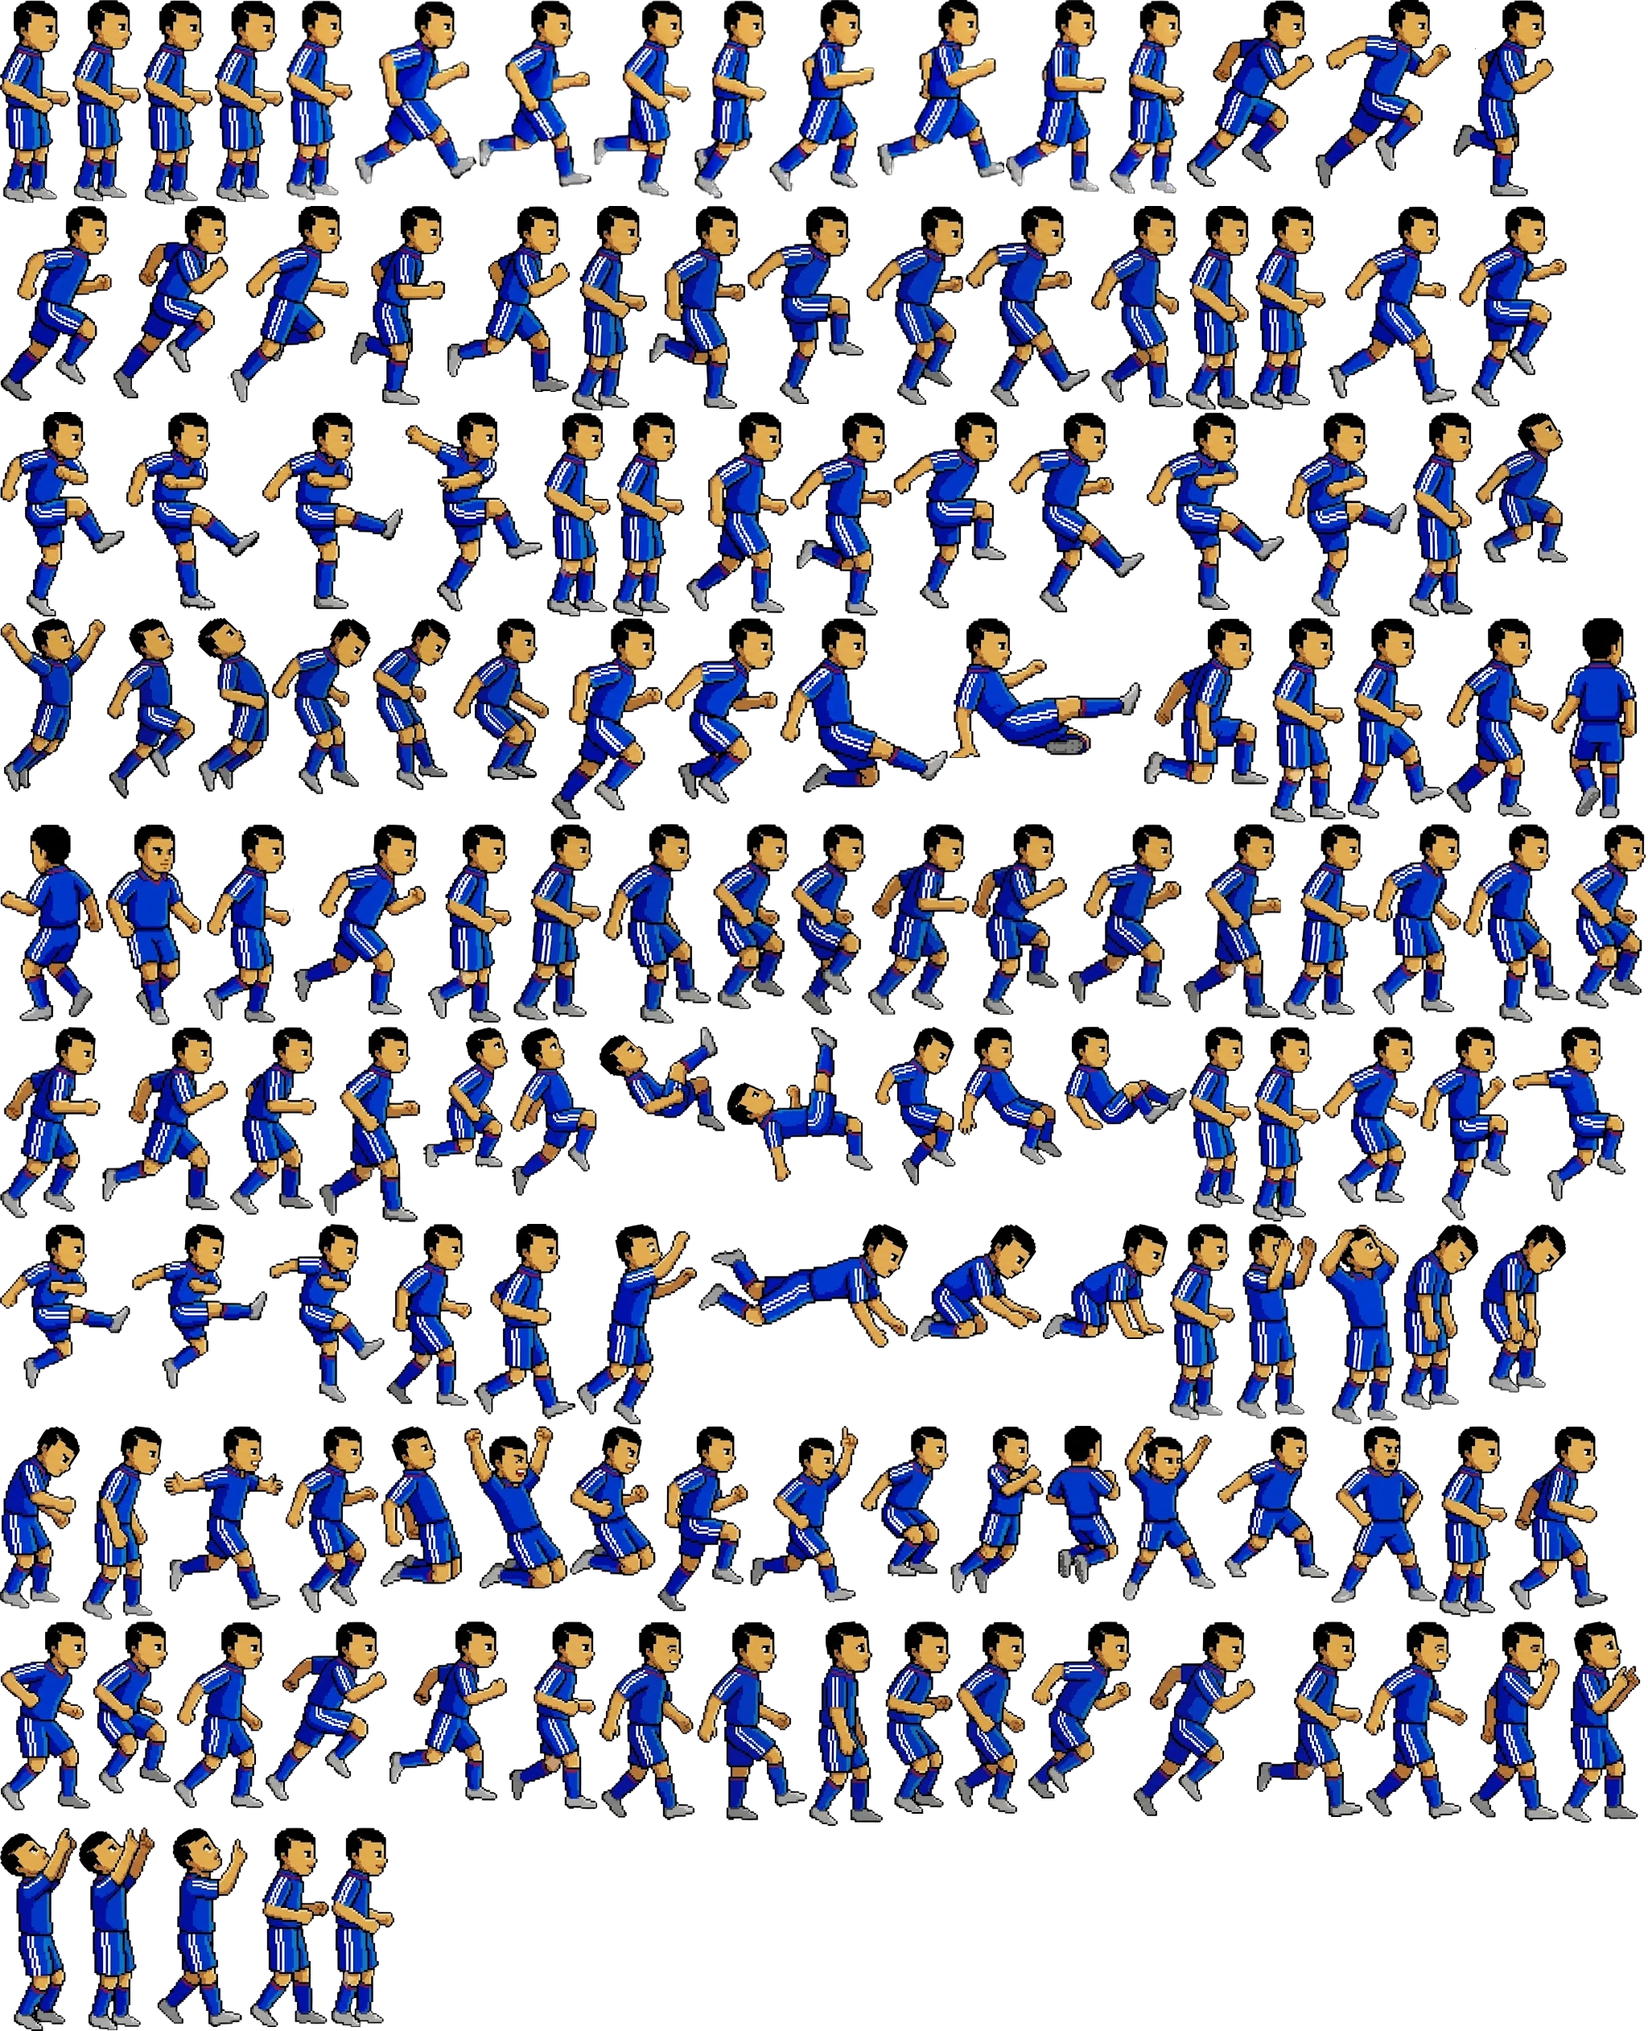
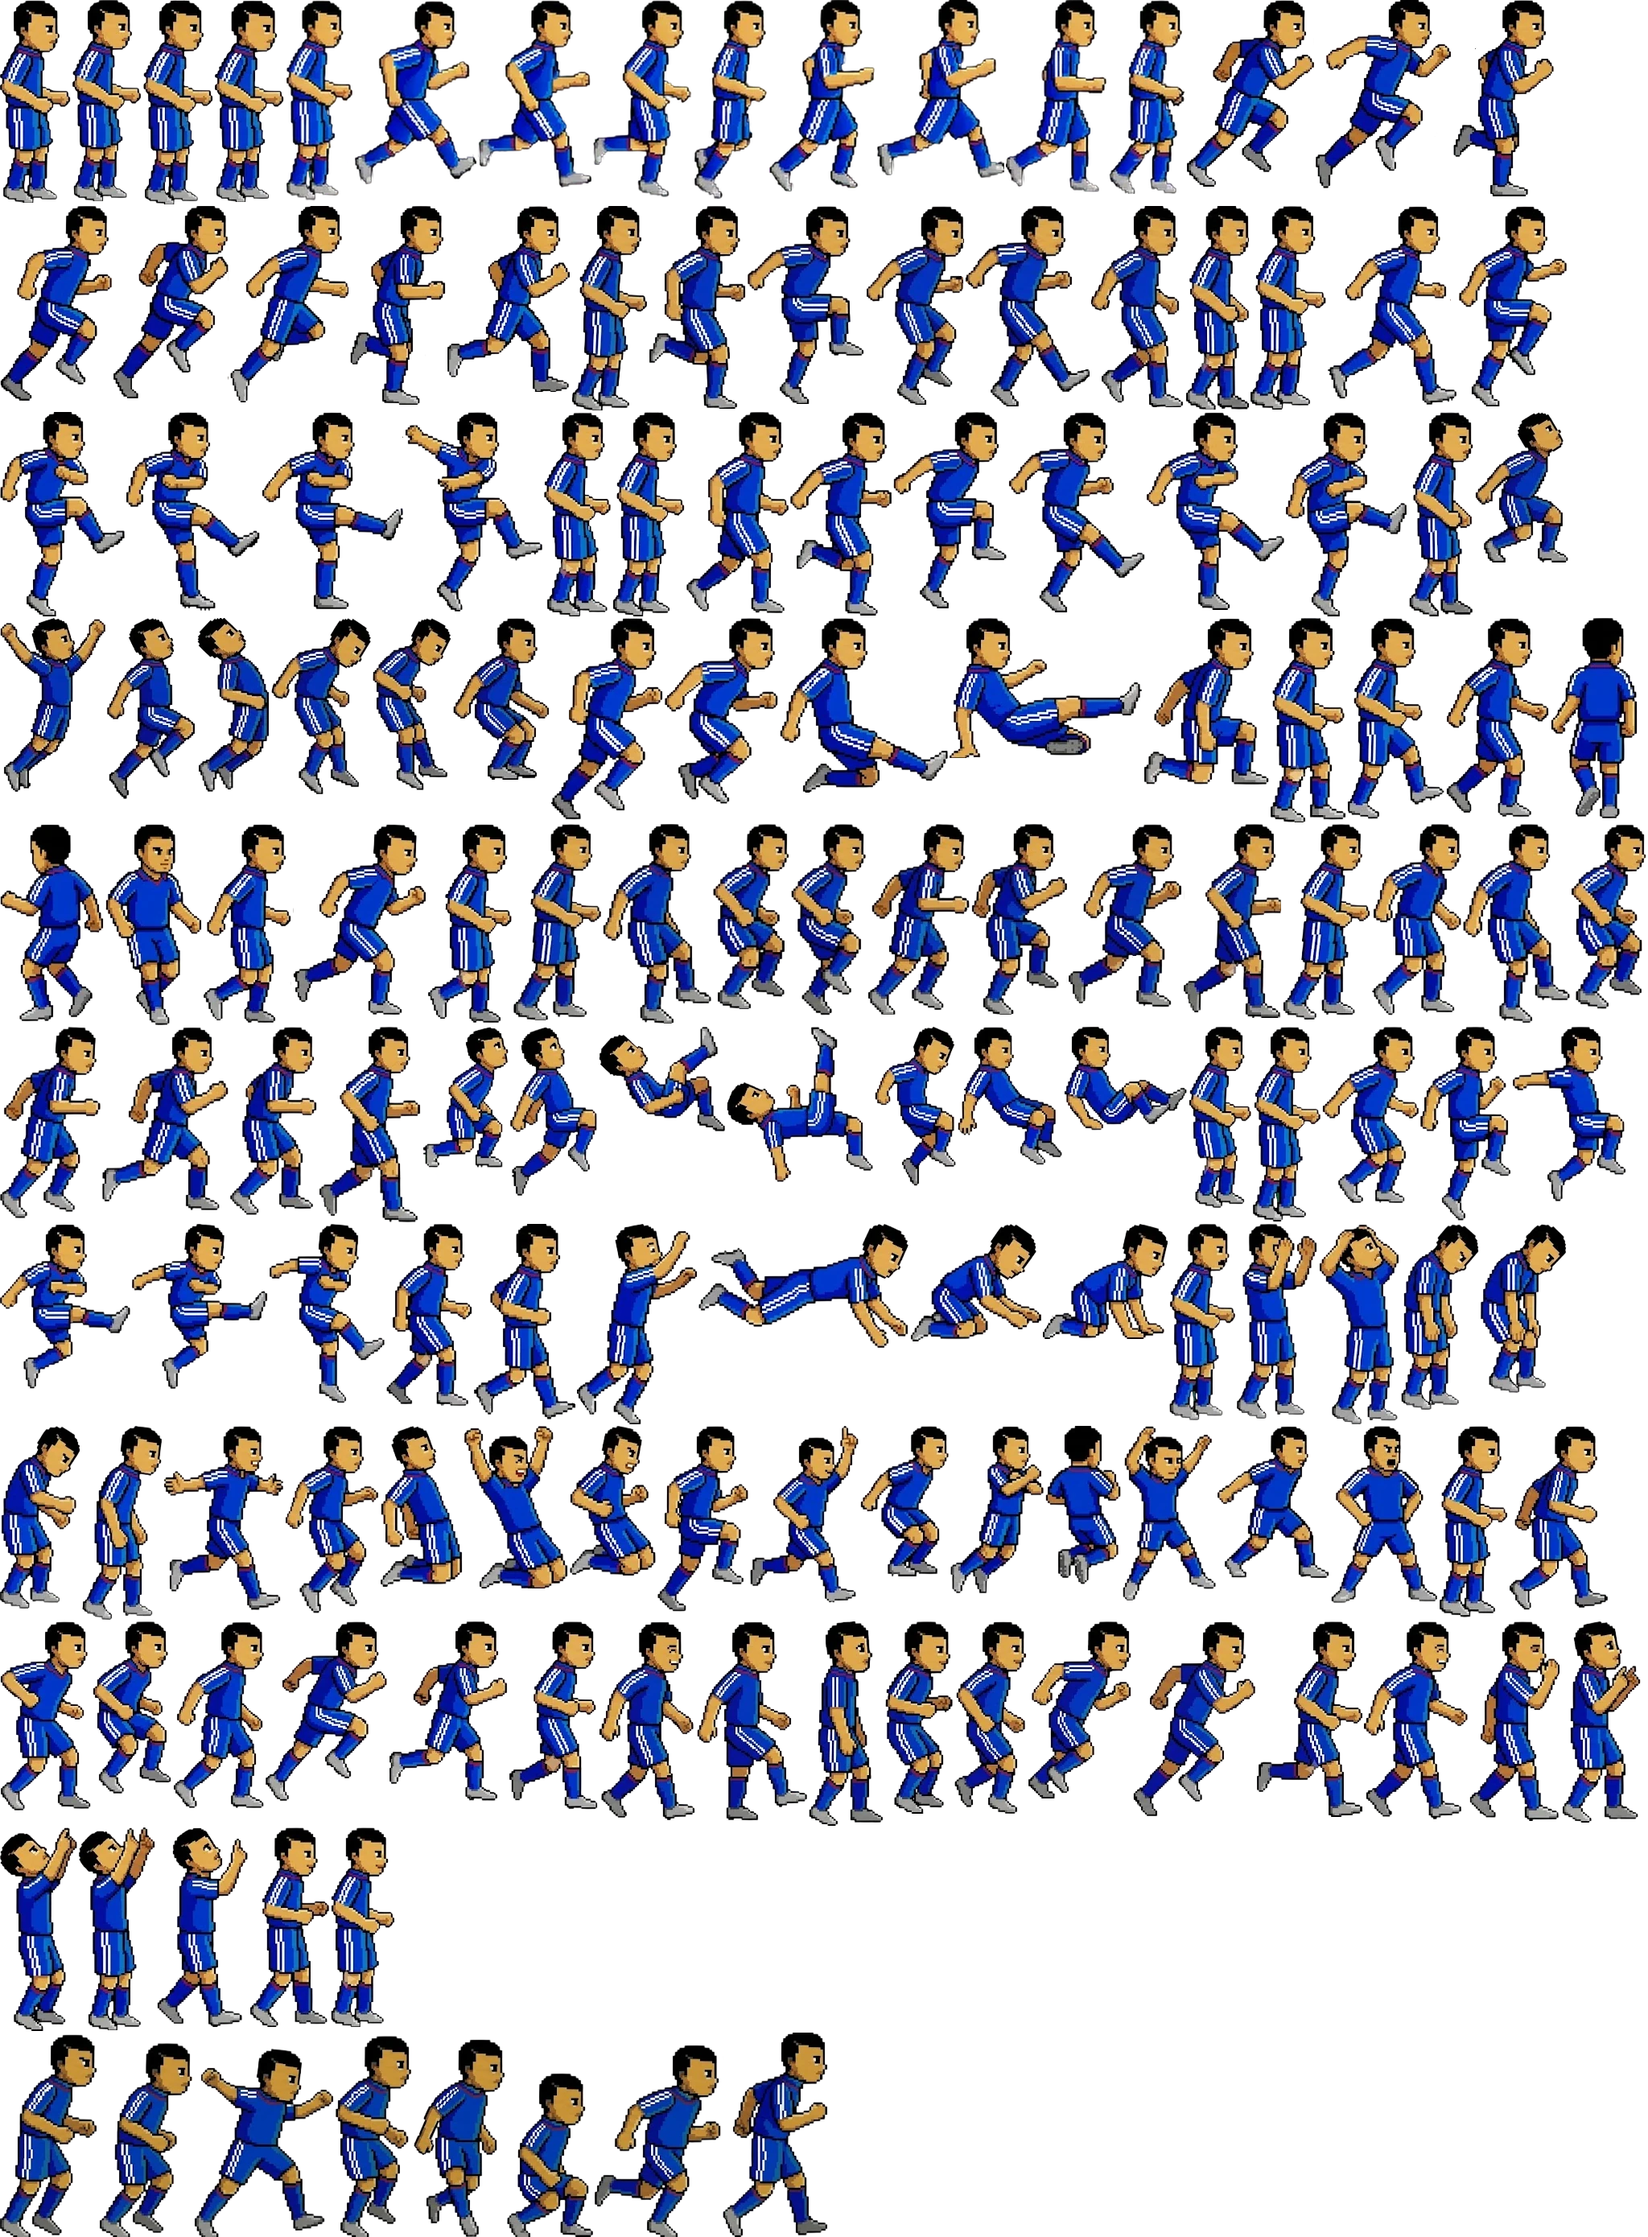
update ki nang messi

diff --git a/js/sprites.js b/js/sprites.js
@@ -1,5 +1,5 @@
 /* Sprite atlas: mỗi khung hình = [x, y, rộng, cao] trong ảnh atlas. Tạo bằng tools/build_atlas.py */
-const SPRITE_META={"std":{"ref":254,"anims":{"idle":[[0,0,88,252],[90,0,86,250],[178,0,87,254],[267,0,86,251]],"run":[[355,0,84,250],[441,0,151,230],[594,0,141,233],[737,0,123,245],[862,0,91,248],[955,0,132,239],[1089,0,159,221],[1250,0,126,239],[1378,0,95,241]],"bpha":[[1475,0,158,232],[1635,0,169,234],[1806,0,125,244],[0,256,139,242],[141,256,143,239],[286,256,147,244],[435,256,119,247],[556,256,152,231]],"pass":[[710,256,94,254],[806,256,121,252],[929,256,145,246],[1076,256,122,247],[1200,256,154,249],[1356,256,115,250],[1473,256,79,253]],"fk":[[710,256,94,254],[806,256,121,252],[929,256,145,246],[1076,256,122,247],[1200,256,154,249],[1356,256,115,250],[1473,256,79,253]],"long":[[1554,256,94,253],[1650,256,161,247],[1813,256,134,249],[0,512,155,254],[157,512,166,247],[325,512,176,245],[503,512,171,248],[676,512,83,254]],"shot":[[761,512,90,254],[853,512,127,250],[982,512,126,253],[1110,512,141,244],[1253,512,170,249],[1425,512,171,246],[1598,512,151,254],[1751,512,80,254]],"head":[[1833,512,116,187],[0,768,131,216],[133,768,110,225],[245,768,90,216],[337,768,124,219],[463,768,98,214],[563,768,120,201]],"slide":[[685,768,139,251],[826,768,141,231],[969,768,209,217],[1180,768,239,174],[1421,768,156,208],[1579,768,93,254]],"roulette":[[1674,768,121,250],[1797,768,128,248],[1927,768,108,249],[0,1024,129,246],[131,1024,120,250],[253,1024,109,247],[364,1024,166,238],[532,1024,104,247]],"stepover":[[638,1024,109,244],[749,1024,135,248],[886,1024,95,230],[983,1024,93,238],[1078,1024,127,237],[1207,1024,119,237],[1328,1024,141,228],[1471,1024,121,241]],"lua":[[1594,1024,109,244],[1705,1024,111,238],[1818,1024,133,248],[1953,1024,93,230],[0,1276,125,238],[127,1276,157,228],[286,1276,108,234],[396,1276,127,243]],"bike":[[525,1276,107,175],[634,1276,108,210],[744,1276,157,130],[903,1276,182,193],[1087,1276,101,198],[1190,1276,130,172],[1322,1276,153,129],[1477,1276,78,225]],"volley":[[1557,1276,84,242],[1643,1276,120,219],[1765,1276,113,241],[1880,1276,141,217],[0,1521,162,205],[164,1521,169,205],[335,1521,143,223],[480,1521,107,227]],"nga":[[589,1521,126,244],[717,1521,149,249],[868,1521,261,154],[1131,1521,163,146],[1296,1521,155,143]],"regret":[[1453,1521,82,244],[1537,1521,100,242],[1639,1521,100,249],[1741,1521,97,231],[1840,1521,107,210],[0,1772,100,228],[102,1772,99,241]],"cele":[[203,1772,149,229],[354,1772,117,233],[473,1772,102,200],[577,1772,129,202],[708,1772,107,187],[817,1772,113,231]],"siu":[[932,1772,135,220],[1069,1772,110,187],[1181,1772,116,208],[1299,1772,94,197],[1395,1772,116,217],[1513,1772,139,189],[1654,1772,133,220]],"luamessi":[[1789,1772,85,238],[1876,1772,122,229],[0,2015,113,235],[115,2015,98,214],[215,2015,113,232],[330,2015,151,223],[483,2015,148,223],[633,2015,110,234]],"dibo":[[745,2015,119,247],[866,2015,137,248],[1005,2015,93,254],[1100,2015,84,239],[1186,2015,90,239],[1278,2015,128,220],[1408,2015,152,242],[1562,2015,131,243]],"msc":[[1695,2015,129,246],[1826,2015,113,248],[1941,2015,98,250],[0,2271,96,253],[98,2271,95,252],[195,2271,113,248],[310,2271,99,248],[411,2271,79,248]]}},"gk":{"ref":268,"anims":{"idle":[[0,0,138,246],[140,0,108,236],[250,0,102,226],[354,0,109,239]],"catch":[[465,0,150,245],[617,0,154,245],[773,0,142,245],[917,0,120,245],[1039,0,120,243],[1161,0,111,231],[1274,0,153,187],[1429,0,112,239]],"dive":[[1543,0,124,191],[1669,0,119,202],[1790,0,150,221],[0,248,199,213],[201,248,155,196],[358,248,97,191],[457,248,121,139],[580,248,120,182]],"divelow":[[702,248,130,223],[834,248,108,217],[944,248,206,190],[1152,248,264,141],[1418,248,211,134],[1631,248,119,201],[1752,248,128,221]],"punch":[[1882,248,120,184],[0,473,125,173],[127,473,94,208],[223,473,90,217],[315,473,127,207],[444,473,90,175],[536,473,115,186]]}}};
+const SPRITE_META={"std":{"ref":254,"anims":{"idle":[[0,0,88,252],[90,0,86,250],[178,0,87,254],[267,0,86,251]],"run":[[355,0,84,250],[441,0,151,230],[594,0,141,233],[737,0,123,245],[862,0,91,248],[955,0,132,239],[1089,0,159,221],[1250,0,126,239],[1378,0,95,241]],"bpha":[[1475,0,158,232],[1635,0,169,234],[1806,0,125,244],[0,256,139,242],[141,256,143,239],[286,256,147,244],[435,256,119,247],[556,256,152,231]],"pass":[[710,256,94,254],[806,256,121,252],[929,256,145,246],[1076,256,122,247],[1200,256,154,249],[1356,256,115,250],[1473,256,79,253]],"fk":[[710,256,94,254],[806,256,121,252],[929,256,145,246],[1076,256,122,247],[1200,256,154,249],[1356,256,115,250],[1473,256,79,253]],"long":[[1554,256,94,253],[1650,256,161,247],[1813,256,134,249],[0,512,155,254],[157,512,166,247],[325,512,176,245],[503,512,171,248],[676,512,83,254]],"shot":[[761,512,90,254],[853,512,127,250],[982,512,126,253],[1110,512,141,244],[1253,512,170,249],[1425,512,171,246],[1598,512,151,254],[1751,512,80,254]],"head":[[1833,512,116,187],[0,768,131,216],[133,768,110,225],[245,768,90,216],[337,768,124,219],[463,768,98,214],[563,768,120,201]],"slide":[[685,768,139,251],[826,768,141,231],[969,768,209,217],[1180,768,239,174],[1421,768,156,208],[1579,768,93,254]],"roulette":[[1674,768,121,250],[1797,768,128,248],[1927,768,108,249],[0,1024,129,246],[131,1024,120,250],[253,1024,109,247],[364,1024,166,238],[532,1024,104,247]],"stepover":[[638,1024,109,244],[749,1024,135,248],[886,1024,95,230],[983,1024,93,238],[1078,1024,127,237],[1207,1024,119,237],[1328,1024,141,228],[1471,1024,121,241]],"lua":[[1594,1024,109,244],[1705,1024,111,238],[1818,1024,133,248],[1953,1024,93,230],[0,1276,125,238],[127,1276,157,228],[286,1276,108,234],[396,1276,127,243]],"bike":[[525,1276,107,175],[634,1276,108,210],[744,1276,157,130],[903,1276,182,193],[1087,1276,101,198],[1190,1276,130,172],[1322,1276,153,129],[1477,1276,78,225]],"volley":[[1557,1276,84,242],[1643,1276,120,219],[1765,1276,113,241],[1880,1276,141,217],[0,1521,162,205],[164,1521,169,205],[335,1521,143,223],[480,1521,107,227]],"nga":[[589,1521,126,244],[717,1521,149,249],[868,1521,261,154],[1131,1521,163,146],[1296,1521,155,143]],"regret":[[1453,1521,82,244],[1537,1521,100,242],[1639,1521,100,249],[1741,1521,97,231],[1840,1521,107,210],[0,1772,100,228],[102,1772,99,241]],"cele":[[203,1772,149,229],[354,1772,117,233],[473,1772,102,200],[577,1772,129,202],[708,1772,107,187],[817,1772,113,231]],"siu":[[932,1772,135,220],[1069,1772,110,187],[1181,1772,116,208],[1299,1772,94,197],[1395,1772,116,217],[1513,1772,139,189],[1654,1772,133,220]],"luamessi":[[0,2528,121,252],[123,2539,116,241],[241,2546,174,234],[417,2530,95,250],[514,2534,114,246],[630,2576,107,204],[739,2541,157,239],[898,2526,130,254]],"dibo":[[745,2015,119,247],[866,2015,137,248],[1005,2015,93,254],[1100,2015,84,239],[1186,2015,90,239],[1278,2015,128,220],[1408,2015,152,242],[1562,2015,131,243]],"msc":[[1695,2015,129,246],[1826,2015,113,248],[1941,2015,98,250],[0,2271,96,253],[98,2271,95,252],[195,2271,113,248],[310,2271,99,248],[411,2271,79,248]]}},"gk":{"ref":268,"anims":{"idle":[[0,0,138,246],[140,0,108,236],[250,0,102,226],[354,0,109,239]],"catch":[[465,0,150,245],[617,0,154,245],[773,0,142,245],[917,0,120,245],[1039,0,120,243],[1161,0,111,231],[1274,0,153,187],[1429,0,112,239]],"dive":[[1543,0,124,191],[1669,0,119,202],[1790,0,150,221],[0,248,199,213],[201,248,155,196],[358,248,97,191],[457,248,121,139],[580,248,120,182]],"divelow":[[702,248,130,223],[834,248,108,217],[944,248,206,190],[1152,248,264,141],[1418,248,211,134],[1631,248,119,201],[1752,248,128,221]],"punch":[[1882,248,120,184],[0,473,125,173],[127,473,94,208],[223,473,90,217],[315,473,127,207],[444,473,90,175],[536,473,115,186]]}}};
 const SPRITE_SRC={"std": "assets/atlas_std.webp", "gk": "assets/atlas_gk.webp"};
 const TROLY_SRC="assets/tro-ly.webp";
 const NPC_IMG={"taichinh": "assets/npc-taichinh.webp", "chienthuat": "assets/npc-chienthuat.webp", "hlv": "assets/npc-hlv.webp", "moigioi": "assets/npc-moigioi.webp", "trolý": "assets/npc-troly.webp"};
